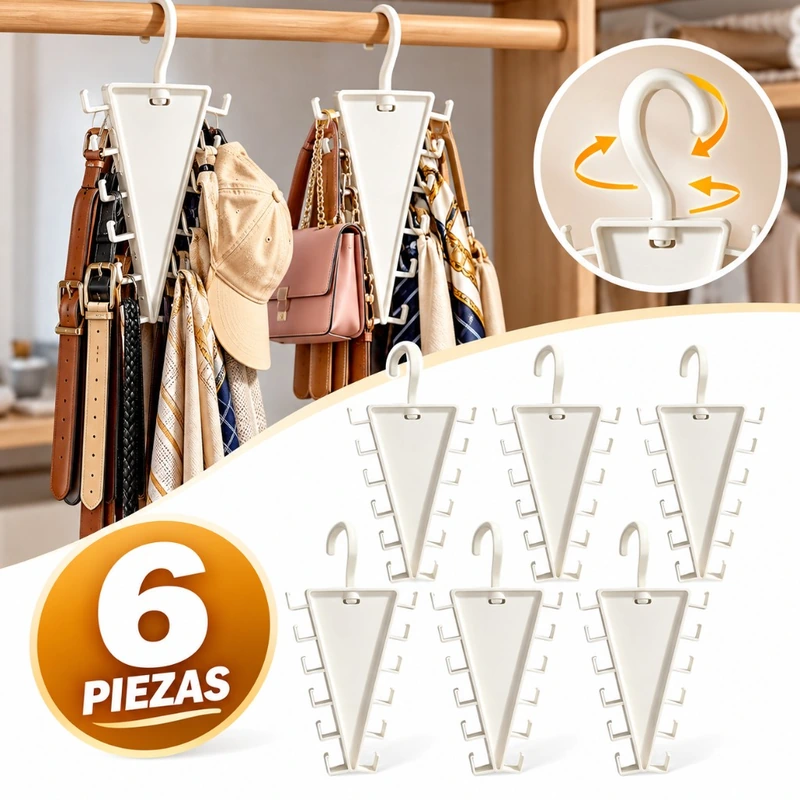
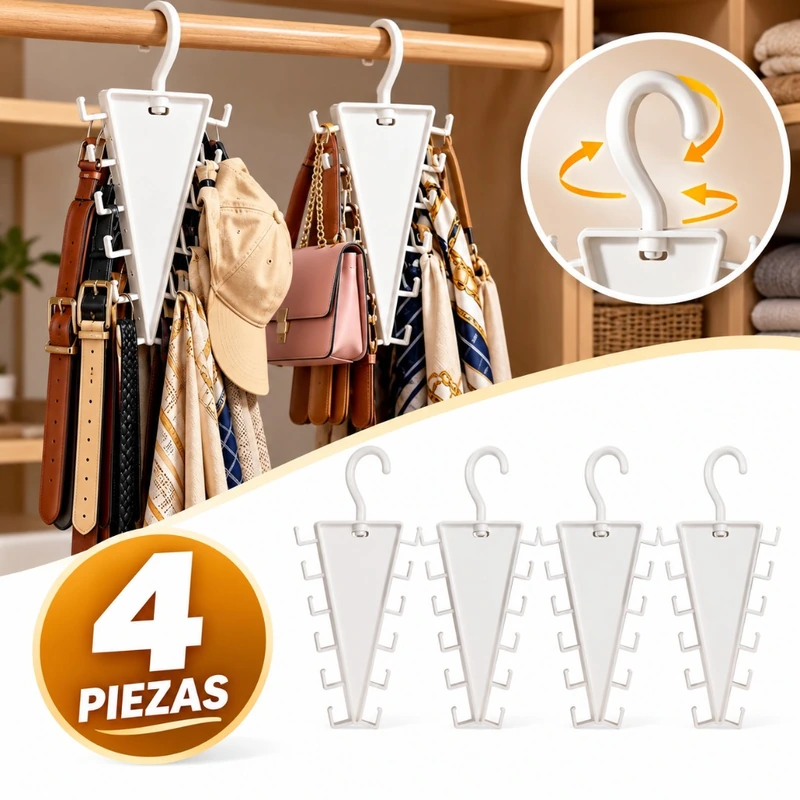
Closet hanger: 4-piece hero and 4/8/16 piece offers at 39/49/69 USD.

diff --git a/closet-organizer-hanger-panama.html b/closet-organizer-hanger-panama.html
@@ -3,10 +3,10 @@
 <head>
   <meta charset="UTF-8">
   <meta name="viewport" content="width=device-width, initial-scale=1.0">
-  <title>Organizador de Clóset Giratorio de Doble Cara — 6 Piezas | CompraConfio Panamá — Pago Contra Entrega</title>
-  <meta name="description" content="Organizador de clóset giratorio de doble cara: 12 ganchos, rotación 360° y paquete de 6 unidades. Ordena cinturones, gorras y accesorios sin ocupar más espacio. Envío gratis y pago contra entrega en Panamá.">
-  <link rel="preload" as="image" href="/images/closet-organizer-hanger/hero-product-800.webp?v=20260926b" type="image/webp" fetchpriority="high" media="(max-width: 960px)">
-  <link rel="preload" as="image" href="/images/closet-organizer-hanger/hero-product.webp?v=20260926b" type="image/webp" fetchpriority="high" media="(min-width: 961px)">
+  <title>Organizador de Clóset Giratorio — 4 Piezas | CompraConfio Panamá — Pago Contra Entrega</title>
+  <meta name="description" content="Organizador de clóset giratorio: giro 360°, múltiples ganchos y paquete de 4 piezas desde $39. Ofertas 8 y 16 piezas. Envío gratis y pago contra entrega en Panamá.">
+  <link rel="preload" as="image" href="/images/closet-organizer-hanger/hero-product-800.webp?v=20261006b" type="image/webp" fetchpriority="high" media="(max-width: 960px)">
+  <link rel="preload" as="image" href="/images/closet-organizer-hanger/hero-product.webp?v=20261006b" type="image/webp" fetchpriority="high" media="(min-width: 961px)">
   <link rel="preload" as="style" href="/css/product.css?v=20260811a">
   <link rel="preload" as="style" href="/css/closet-organizer-hanger.css?v=20260926b">
   <link rel="preconnect" href="https://fonts.googleapis.com">
@@ -22,12 +22,12 @@
   <div class="announce-track">
     <span>Envío gratis a toda Panamá</span>
     <span>Pago contra entrega</span>
-    <span>12 ganchos por organizador</span>
-    <span>Giro 360° · Paquete de 6</span>
+    <span>Oferta 4 · 8 · 16 piezas</span>
+    <span>Giro 360° · Desde $39</span>
     <span>Envío gratis a toda Panamá</span>
     <span>Pago contra entrega</span>
-    <span>12 ganchos por organizador</span>
-    <span>Giro 360° · Paquete de 6</span>
+    <span>Oferta 4 · 8 · 16 piezas</span>
+    <span>Giro 360° · Desde $39</span>
   </div>
 </div>
 
@@ -39,7 +39,7 @@
   </div>
 </header>
 
-<div class="deal-strip">12 ganchos · Giro 360° · Paquete 6 · Envío gratis · Pago al recibir · Garantía 30 días</div>
+<div class="deal-strip">Giro 360° · 4 piezas $39 · Envío gratis · Pago al recibir · Garantía 30 días</div>
 
 <main class="product-main">
   <div class="product-layout">
@@ -48,9 +48,9 @@
       <div class="gallery-stage" id="galleryTrack">
         <div class="slide">
           <picture>
-            <source type="image/webp" media="(max-width: 960px)" srcset="/images/closet-organizer-hanger/hero-product-800.webp?v=20260926b">
-            <source type="image/webp" srcset="/images/closet-organizer-hanger/hero-product.webp?v=20260926b">
-            <img class="is-contain" src="/images/closet-organizer-hanger/hero-product.png?v=20260926b" alt="Paquete de 6 organizadores — uso en clóset con giro 360°" width="800" height="800" loading="eager" decoding="async" fetchpriority="high">
+            <source type="image/webp" media="(max-width: 960px)" srcset="/images/closet-organizer-hanger/hero-product-800.webp?v=20261006b">
+            <source type="image/webp" srcset="/images/closet-organizer-hanger/hero-product.webp?v=20261006b">
+            <img class="is-contain" src="/images/closet-organizer-hanger/hero-product.png?v=20261006b" alt="Organizador de clóset giratorio — paquete de 4 piezas con giro 360°" width="800" height="800" loading="eager" decoding="async" fetchpriority="high">
           </picture>
         </div>
         <div class="slide">
@@ -74,7 +74,7 @@
       </div>
       <div class="gallery-dots" id="galleryDots" aria-hidden="true"></div>
       <div class="gallery-thumbs">
-        <button type="button" class="thumb is-active" aria-label="Producto"><img src="/images/closet-organizer-hanger/hero-product-thumb.webp?v=20260926b" alt="" width="160" height="160" decoding="async"></button>
+        <button type="button" class="thumb is-active" aria-label="Producto"><img src="/images/closet-organizer-hanger/hero-product-thumb.webp?v=20261006b" alt="" width="160" height="160" decoding="async"></button>
         <button type="button" class="thumb" aria-label="Antes y después"><img src="/images/closet-organizer-hanger/hero-rotate-thumb.webp?v=20260926b" alt="" width="160" height="160" loading="lazy" decoding="async"></button>
         <button type="button" class="thumb" aria-label="Giro 360°"><img src="/images/closet-organizer-hanger/hero-hooks-thumb.webp?v=20260926b" alt="" width="160" height="160" loading="lazy" decoding="async"></button>
         <button type="button" class="thumb" aria-label="Ganchos"><img src="/images/closet-organizer-hanger/hero-space-thumb.webp?v=20260926b" alt="" width="160" height="160" loading="lazy" decoding="async"></button>
@@ -83,12 +83,12 @@
 
     <section class="product-info">
       <p class="product-subtitle">🧺 ¡Más orden en tu clóset sin ocupar más espacio!</p>
-      <h1 class="product-title">Organizador de Clóset Giratorio de Doble Cara — 6 Piezas</h1>
+      <h1 class="product-title">Organizador de Clóset Giratorio — 4 Piezas</h1>
 
       <div class="price-row">
         <span class="price-now" id="priceNow">$39</span>
-        <span class="price-was" id="priceWas">$52</span>
-        <span class="price-save">Ahorra 25%</span>
+        <span class="price-was" id="priceWas">$56</span>
+        <span class="price-save">Ahorra 30%</span>
       </div>
 
       <p class="hero-lead">Organiza cinturones, gorras, bufandas, corbatas y accesorios en un solo lugar. Aprovecha el espacio vertical y mantén todo visible, separado y al alcance de la mano.</p>
@@ -98,7 +98,7 @@
         <li>✓ Giro de 360°</li>
         <li>✓ Diseño compacto</li>
         <li>✓ Sin herramientas ni instalación</li>
-        <li>✓ Paquete de 6 organizadores</li>
+        <li>✓ Oferta desde 4 piezas (8 y 16 disponibles)</li>
       </ul>
 
       <p class="notice"><strong>🚚 Envío GRATIS · 💵 Pago contra entrega en Panamá</strong></p>
@@ -212,7 +212,7 @@
       </button>
       <button type="button" class="mech-card">
         <picture><source type="image/webp" srcset="/images/closet-organizer-hanger/benefit-7.webp?v=20260926d"><img src="/images/closet-organizer-hanger/benefit-7.png?v=20260926d" alt="Paquete de 6 organizadores blancos de doble cara" width="800" height="800" loading="lazy" decoding="async"></picture>
-        <h3>📦 6 unidades en un solo paquete</h3>
+        <h3>📦 Paquete de 4 piezas</h3>
         <p>Organiza diferentes tipos de accesorios o utiliza varios organizadores para aprovechar mucho mejor tu clóset.</p>
       </button>
     </div>
@@ -284,7 +284,7 @@
     <div class="faq collapse-group">
       <div class="collapse">
         <button type="button" class="collapse-btn">¿Cuántos organizadores incluye? <i>+</i></button>
-        <div class="collapse-body">El paquete incluye <strong>6 organizadores</strong>.</div>
+        <div class="collapse-body">La oferta base incluye <strong>4 organizadores</strong>. También puedes elegir <strong>8 o 16 piezas</strong> en el checkout.</div>
       </div>
       <div class="collapse">
         <button type="button" class="collapse-btn">¿Cuántos ganchos tiene cada uno? <i>+</i></button>
@@ -332,7 +332,7 @@
 <div class="sticky-bar" id="bottomSticky" aria-hidden="true">
   <div>
     <strong id="stickyPrice">$39</strong>
-    <span id="stickyLabel">Paquete 6 uds</span>
+    <span id="stickyLabel">4 piezas</span>
   </div>
   <button type="button" class="js-open-order">Comprar</button>
 </div>
@@ -346,10 +346,10 @@
     </div>
     <div class="order-body">
       <div class="order-product">
-        <img src="/images/closet-organizer-hanger/hero-product-thumb.webp?v=20260926b" alt="" width="72" height="72" style="width:72px;height:72px;object-fit:contain;border-radius:8px;background:#fff" loading="lazy" decoding="async">
+        <img src="/images/closet-organizer-hanger/hero-product-thumb.webp?v=20261006b" alt="" width="72" height="72" style="width:72px;height:72px;object-fit:contain;border-radius:8px;background:#fff" loading="lazy" decoding="async">
         <div>
           <strong>Organizador de Clóset Giratorio</strong>
-          <span>Paquete 6 uds · Envío gratis</span>
+          <span>Desde 4 piezas · Envío gratis</span>
         </div>
       </div>
       <form id="orderForm" action="/thank-you-compraconfio-panama.html" method="GET">
@@ -360,24 +360,24 @@
         <span class="block-label">1. Elige tu oferta</span>
         <div class="bundles">
           <label class="bundle bundle-option is-selected">
-            <input type="radio" name="bundleOption" value="cc-closethanger-pa-1" data-product-id="cc-closethanger-pa-1" data-product-name="Organizador de Clóset Giratorio - Paquete 6 uds" data-price="39" data-old-price="52" data-save="25" data-label="Paquete 6 uds" checked>
+            <input type="radio" name="bundleOption" value="cc-closethanger-pa-1" data-product-id="cc-closethanger-pa-1" data-product-name="Organizador de Clóset Giratorio - 4 piezas" data-price="39" data-old-price="56" data-save="30" data-label="4 piezas" checked>
             <div class="bundle-card">
               <div class="bundle-head">
-                <span class="bundle-pick"><span class="radio"></span>Paquete 6 uds</span>
-                <span class="bundle-cost"><strong>$39</strong><del>$52</del></span>
+                <span class="bundle-pick"><span class="radio"></span>4 piezas</span>
+                <span class="bundle-cost"><strong>$39</strong><del>$56</del></span>
               </div>
               <div class="bundle-units">
-                <span class="unit-chip"><span class="dot closet"></span>6 organizadores · 12 ganchos c/u</span>
+                <span class="unit-chip"><span class="dot closet"></span>4 organizadores giratorios</span>
               </div>
             </div>
           </label>
           <label class="bundle bundle-option">
-            <input type="radio" name="bundleOption" value="cc-closethanger-pa-2" data-product-id="cc-closethanger-pa-2" data-product-name="Organizador de Clóset Giratorio - 2 paquetes (12 uds)" data-price="54" data-old-price="104" data-save="48" data-label="2 paquetes">
+            <input type="radio" name="bundleOption" value="cc-closethanger-pa-2" data-product-id="cc-closethanger-pa-2" data-product-name="Organizador de Clóset Giratorio - 8 piezas" data-price="49" data-old-price="98" data-save="50" data-label="8 piezas">
             <div class="bundle-card">
               <span class="bundle-flag">Más popular</span>
               <div class="bundle-head">
-                <span class="bundle-pick"><span class="radio"></span>2 paquetes (12 uds)</span>
-                <span class="bundle-cost"><strong>$54</strong><del>$104</del></span>
+                <span class="bundle-pick"><span class="radio"></span>8 piezas</span>
+                <span class="bundle-cost"><strong>$49</strong><del>$98</del></span>
               </div>
               <div class="bundle-units">
                 <span class="unit-chip"><span class="dot closet"></span>Ideal para clóset completo o regalo</span>
@@ -385,12 +385,12 @@
             </div>
           </label>
           <label class="bundle bundle-option">
-            <input type="radio" name="bundleOption" value="cc-closethanger-pa-3" data-product-id="cc-closethanger-pa-3" data-product-name="Organizador de Clóset Giratorio - 3 paquetes (18 uds)" data-price="69" data-old-price="156" data-save="56" data-label="3 paquetes">
+            <input type="radio" name="bundleOption" value="cc-closethanger-pa-3" data-product-id="cc-closethanger-pa-3" data-product-name="Organizador de Clóset Giratorio - 16 piezas" data-price="69" data-old-price="138" data-save="50" data-label="16 piezas">
             <div class="bundle-card">
               <span class="bundle-flag">Mejor valor</span>
               <div class="bundle-head">
-                <span class="bundle-pick"><span class="radio"></span>3 paquetes (18 uds)</span>
-                <span class="bundle-cost"><strong>$69</strong><del>$156</del></span>
+                <span class="bundle-pick"><span class="radio"></span>16 piezas</span>
+                <span class="bundle-cost"><strong>$69</strong><del>$138</del></span>
               </div>
               <div class="bundle-units">
                 <span class="unit-chip"><span class="dot closet"></span>Máximo ahorro · toda la familia</span>
